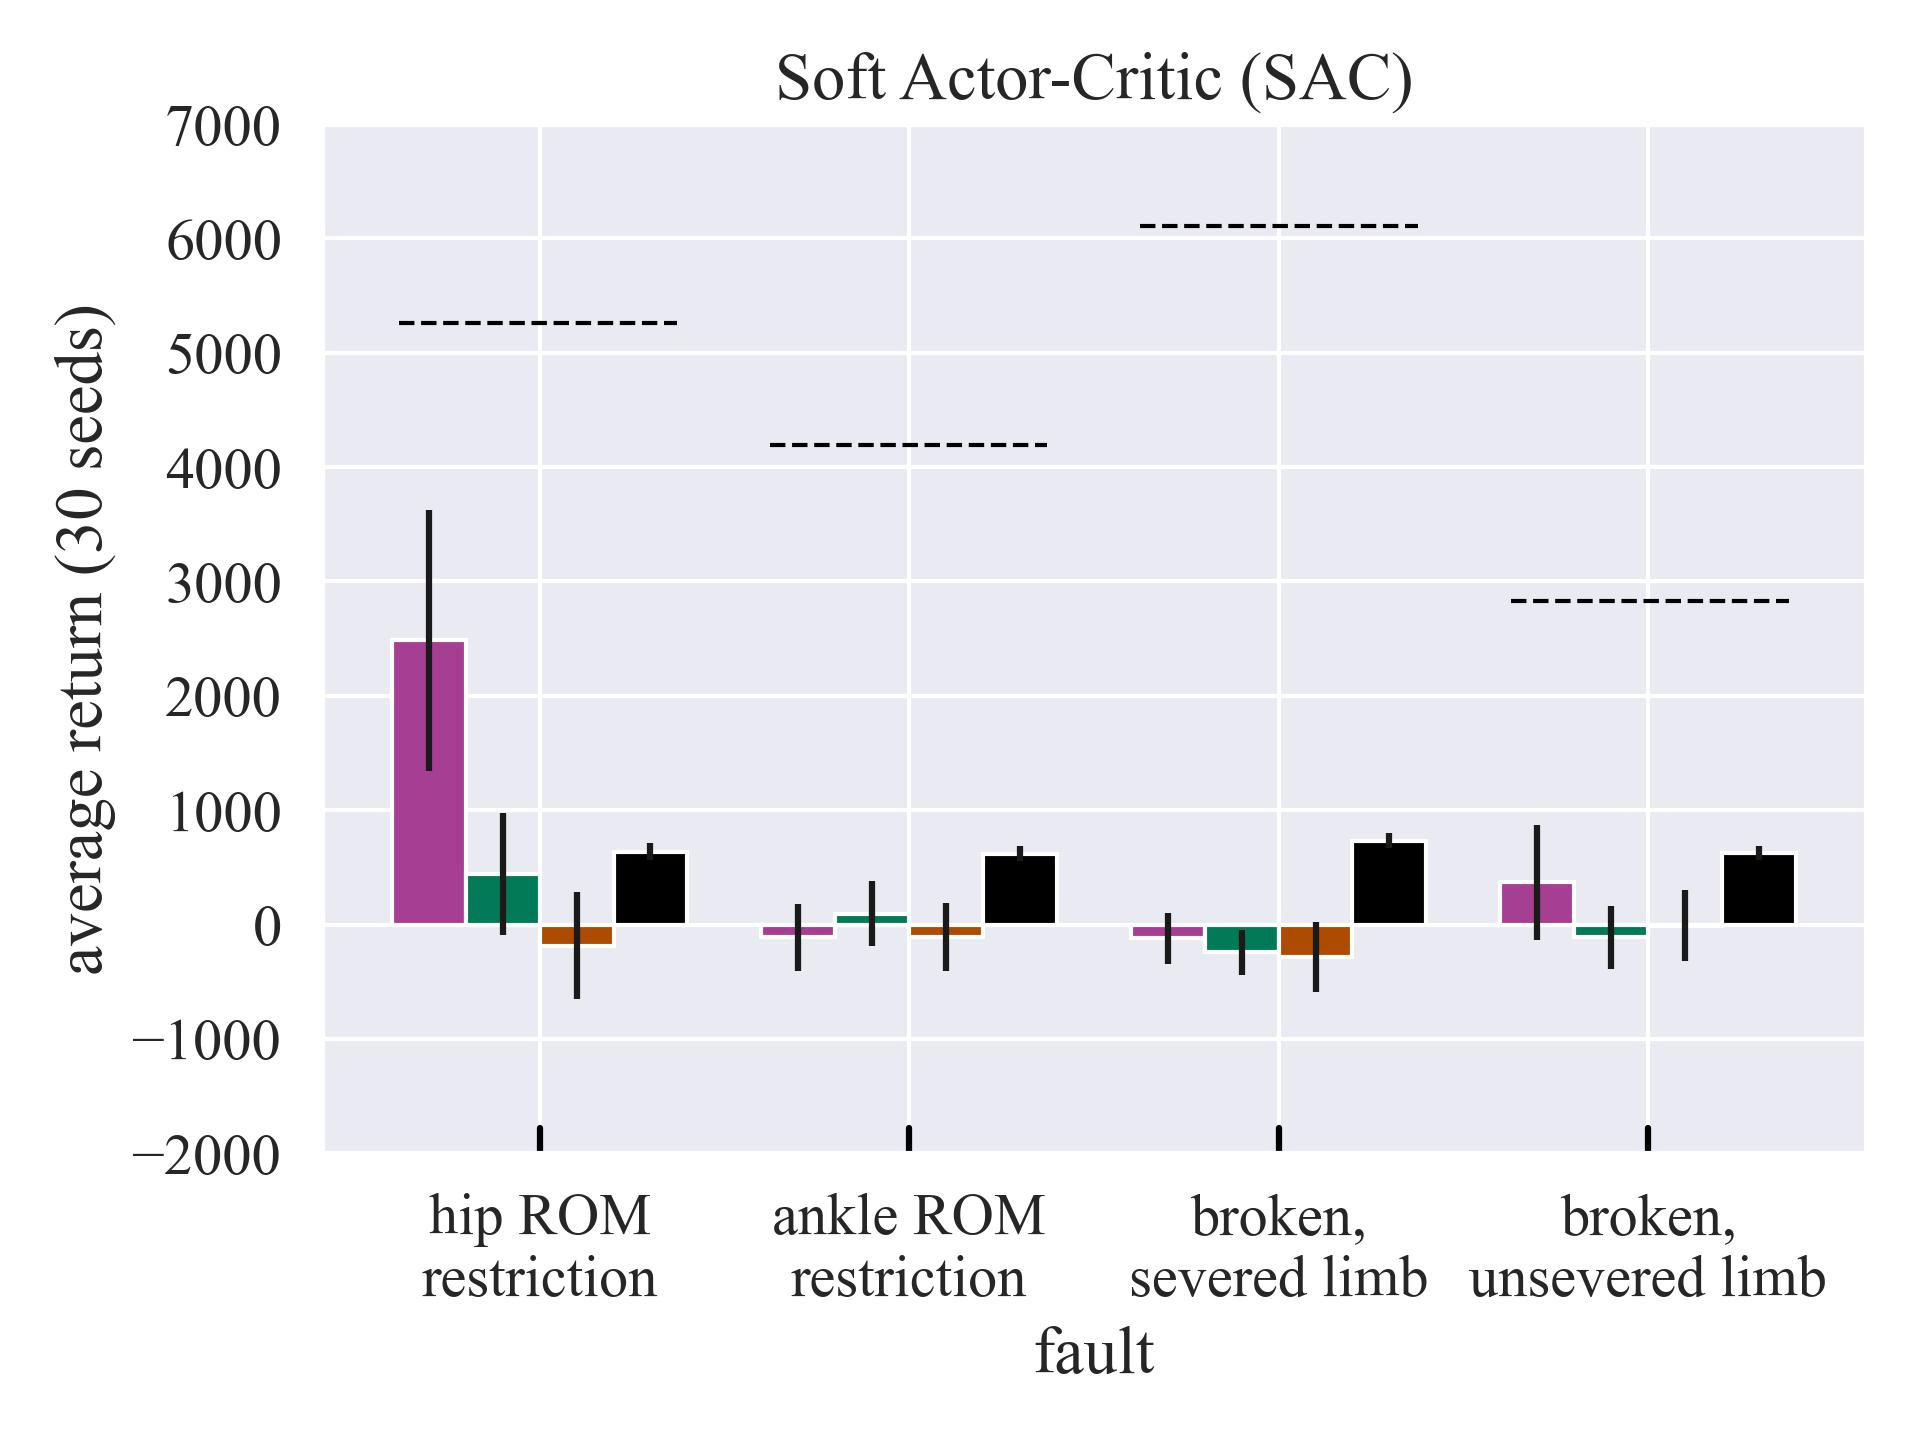
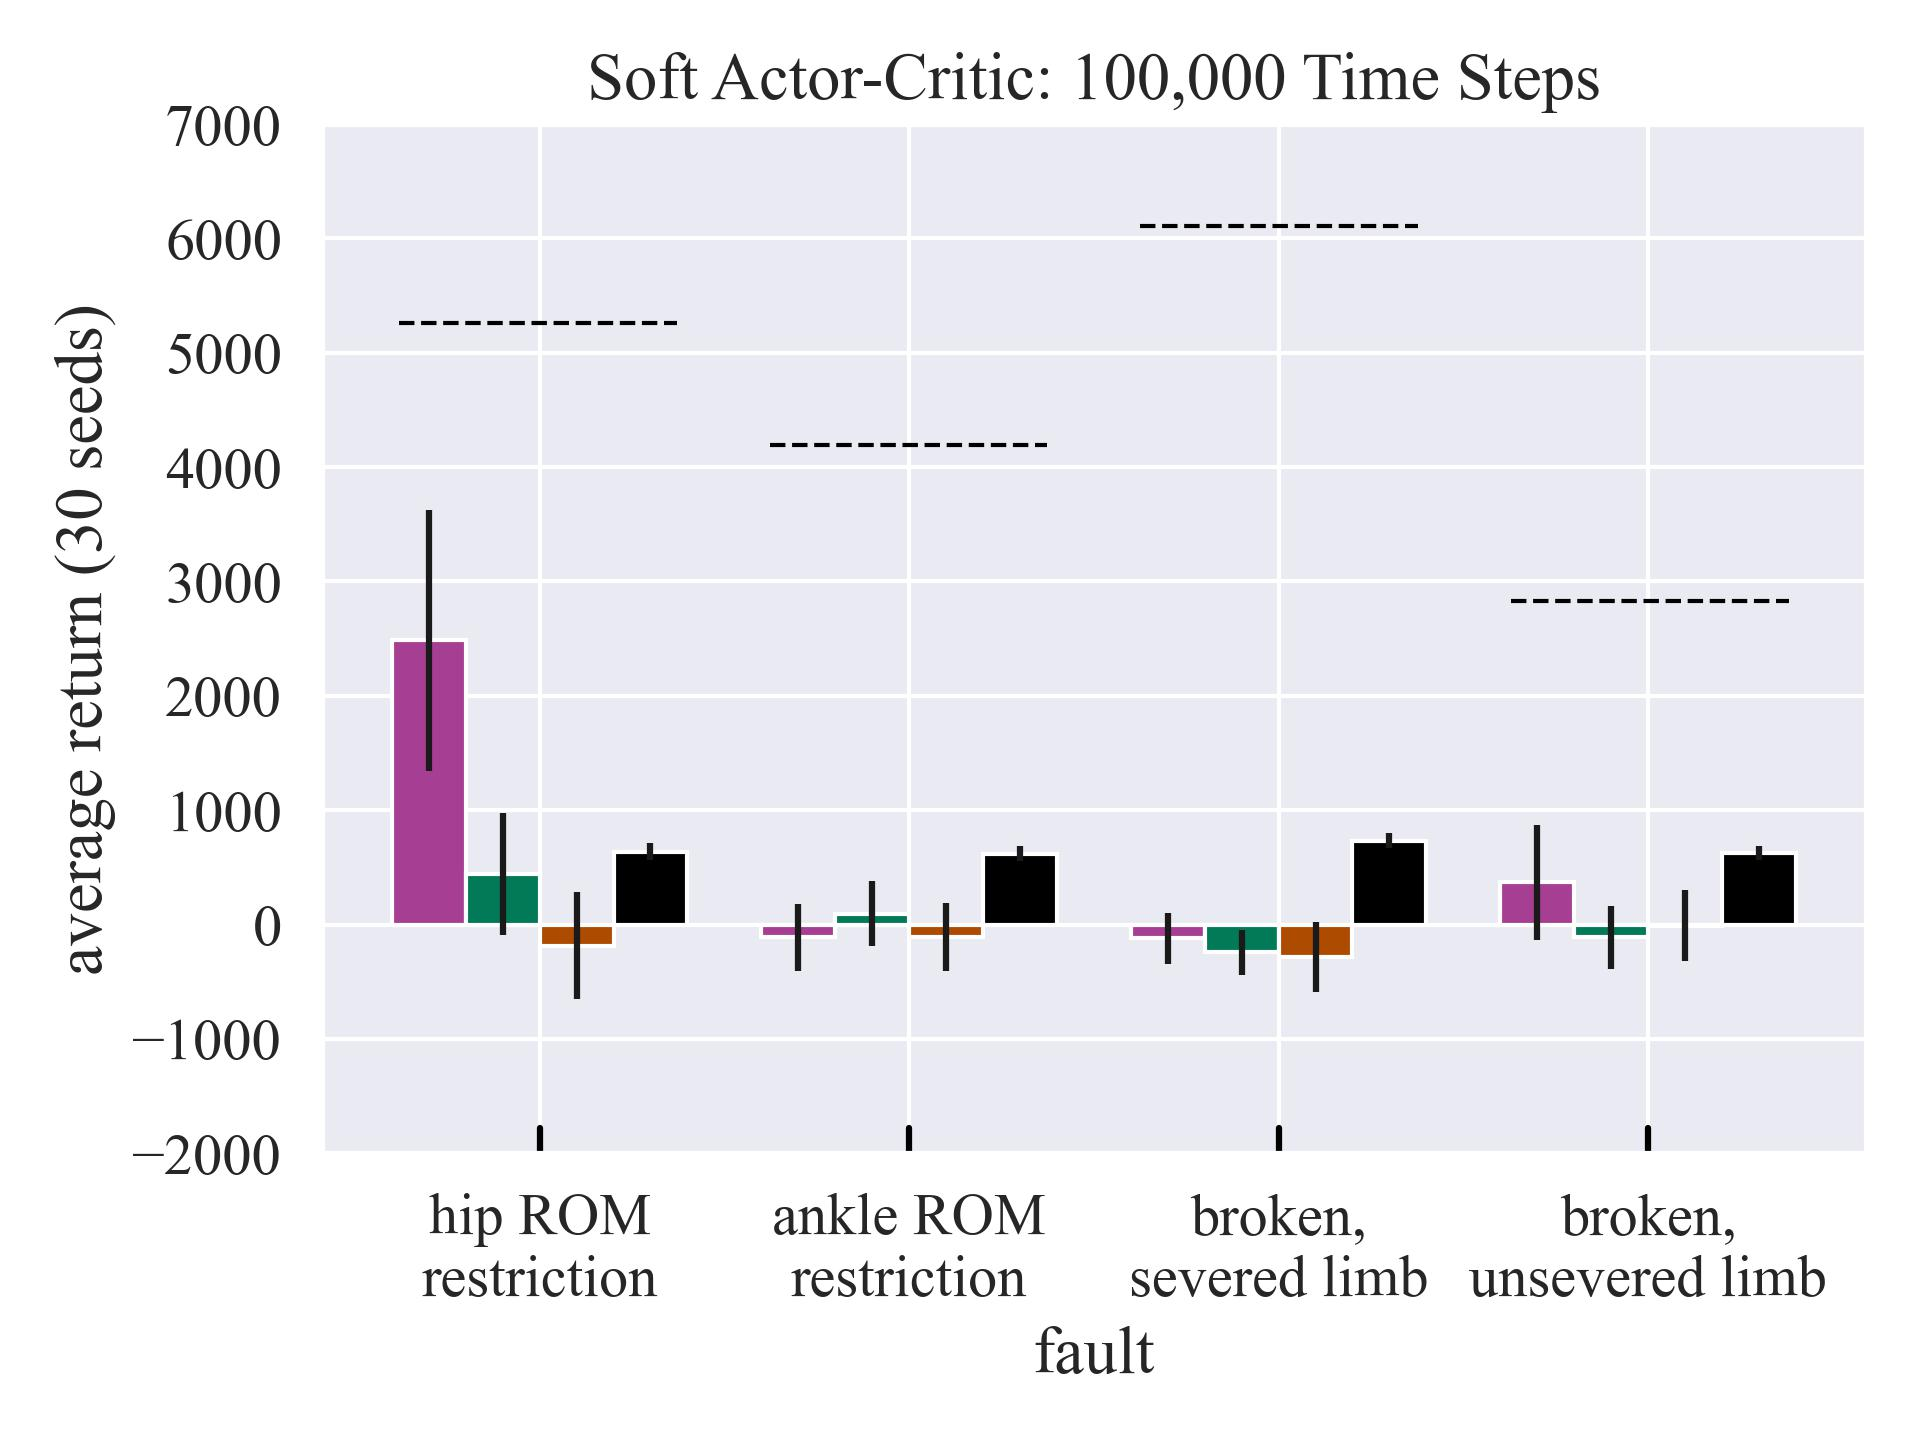
added new title to plots

Changed region(s): [[0.3125, 0.0312, 0.8438, 0.0938]]

diff --git a/plot/paper/stats.py b/plot/paper/stats.py
@@ -546,7 +546,7 @@ def compute_performance_drop_stats(dir_):
         if os.path.exists(dir1):
             eval_data_dir = os.path.join(dir1, "csv", "eval_data.csv")
             eval_data = pd.read_csv(eval_data_dir)
-            pre.append(eval_data[prefault_min + 0:prefault_max]["average_return"].values.tolist())
+            pre.append(eval_data[prefault_min:prefault_max]["average_return"].values.tolist())
             post.append(eval_data[prefault_max:prefault_max + 10]["average_return"].values.tolist())
         else:
             print(colored("missing" + dir1, "red"))
@@ -559,7 +559,7 @@ def compute_performance_drop_stats(dir_):
         diff = post[i] - pre[i]
         drops.append(diff)
 
-    performance_drop_data.append([algo, env, rn, cs, drops])
+    bar_plot_data.append([algo, env, rn, cs, drops])
 
     drop_ci = st.t.interval(alpha=confidence_level, df=len(pre) - 1, loc=np.mean(drops), scale=st.sem(drops))
     if env.startswith("AntEnv"):
@@ -605,7 +605,7 @@ def compute_performance_drop_comparison_stats():
     algorithms = []
     envs = []
 
-    for entry in performance_drop_data:
+    for entry in bar_plot_data:
         algo = entry[0]
         env = entry[1]
         if algo not in algorithms:
@@ -624,7 +624,7 @@ def compute_performance_drop_comparison_stats():
 
             setting_data = []
 
-            for entry in performance_drop_data:
+            for entry in bar_plot_data:
                 algo_ = entry[0]
                 env_ = entry[1]
                 if algo == algo_ and env == env_:
@@ -719,7 +719,7 @@ def compute_performance_drop_comparison_stats():
                 compute_t_test(a_, b_)
 
 
-def compute_postfault_performance_drop(dir_):
+def compute_postfault_bar_plot(dir_):
 
     # experiment info
     info = dir_.split("/")[-1].split("_")
@@ -783,6 +783,10 @@ def compute_postfault_performance_drop(dir_):
 
 def plot_postfault_performance_drop(interval):
 
+    interval_start = 201
+    interval_end = int(interval[1:4])
+    interval_length = interval_end - interval_start
+
     algos = ["PPOv2", "SACv2"]
     envs = ["Ant", "FetchReach"]
 
@@ -796,10 +800,20 @@ def plot_postfault_performance_drop(interval):
 
             data = []
 
+            ts = 0
             if env == "Ant":
                 pre = prefault_performance_data[algo + ", " + "Ant-v2"]
+                if algo == "PPOv2":
+                    ts = interval_length * 3000000
+                elif algo == "SACv2":
+                    ts = interval_length * 100000
             elif env == "FetchReach":
                 pre = prefault_performance_data[algo + ", " + "FetchReach-v1"]
+                if algo == "PPOv2":
+                    ts = interval_length * 30000
+                elif algo == "SACv2":
+                    ts = interval_length * 10000
+            ts = f"{ts:,}"
 
             rnFcsF = None
             rnFcsT = None
@@ -953,9 +967,9 @@ def plot_postfault_performance_drop(interval):
                 plt.ylim((-30, 1.5))
 
             if algo.startswith("PPO"):
-                plt.title("Proximal Policy Optimization (PPO)")
+                plt.title("Proximal Policy Optimization: {} Time Steps".format(ts))
             elif algo.startswith("SAC"):
-                plt.title("Soft Actor-Critic (SAC)")
+                plt.title("Soft Actor-Critic: {} Time Steps".format(ts))
 
             plt.xlabel("fault")
             plt.ylabel("average return (30 seeds)")
@@ -968,7 +982,7 @@ def plot_postfault_performance_drop(interval):
             plt.savefig(filename, dpi=300)
             # Image.open(filename).convert("CMYK").save(filename)
 
-            # plt.show()
+            plt.show()
 
             plt.close()
 
@@ -990,7 +1004,7 @@ if __name__ == "__main__":
 
     complete_adaptation = False
     earliest_adaptation = False
-    performance_drop = False
+    bar_plot = False
     plot_performance_drop = True
 
     if complete_adaptation:
@@ -1074,12 +1088,12 @@ if __name__ == "__main__":
                         dir3 = os.path.join(dir2, dir3)
                         compute_earliest_adaptation_stats(dir3)
 
-    if performance_drop:
+    if bar_plot:
 
         # list of list: entries [algo, env, rn, cs, post]
-        performance_drop_data = []
+        bar_plot_data = []
 
-        with open("stats/performance_drop_stats.txt", "w") as f:
+        with open("stats/bar_plot_stats.txt", "w") as f:
 
             sys.stdout = f
 
@@ -1129,8 +1143,8 @@ if __name__ == "__main__":
         prefault_min = 191
         prefault_max = 201
 
-        postfault_min = 211
-        postfault_max = 212
+        postfault_min = 206
+        postfault_max = 207
 
         eval_interval = f"[{postfault_min}:{postfault_max}]"
 
@@ -1147,7 +1161,7 @@ if __name__ == "__main__":
                 dir2 = os.path.join(dir1, dir2)
                 for dir3 in os.listdir(dir2):
                     dir3 = os.path.join(dir2, dir3)
-                    compute_postfault_performance_drop(dir3)
+                    compute_postfault_bar_plot(dir3)
 
         fetchreach_data_dir = os.path.join(data_dir, "fetchreach", "exps")
 
@@ -1157,7 +1171,7 @@ if __name__ == "__main__":
                 dir2 = os.path.join(dir1, dir2)
                 for dir3 in os.listdir(dir2):
                     dir3 = os.path.join(dir2, dir3)
-                    compute_postfault_performance_drop(dir3)
+                    compute_postfault_bar_plot(dir3)
 
         postfault_performance_data.sort()
         plot_postfault_performance_drop(eval_interval)
@@ -1185,7 +1199,7 @@ if __name__ == "__main__":
                 dir2 = os.path.join(dir1, dir2)
                 for dir3 in os.listdir(dir2):
                     dir3 = os.path.join(dir2, dir3)
-                    compute_postfault_performance_drop(dir3)
+                    compute_postfault_bar_plot(dir3)
 
         fetchreach_data_dir = os.path.join(data_dir, "fetchreach", "exps")
 
@@ -1195,7 +1209,7 @@ if __name__ == "__main__":
                 dir2 = os.path.join(dir1, dir2)
                 for dir3 in os.listdir(dir2):
                     dir3 = os.path.join(dir2, dir3)
-                    compute_postfault_performance_drop(dir3)
+                    compute_postfault_bar_plot(dir3)
 
         postfault_performance_data.sort()
         plot_postfault_performance_drop(eval_interval)
@@ -1223,7 +1237,7 @@ if __name__ == "__main__":
                 dir2 = os.path.join(dir1, dir2)
                 for dir3 in os.listdir(dir2):
                     dir3 = os.path.join(dir2, dir3)
-                    compute_postfault_performance_drop(dir3)
+                    compute_postfault_bar_plot(dir3)
 
         fetchreach_data_dir = os.path.join(data_dir, "fetchreach", "exps")
 
@@ -1233,7 +1247,7 @@ if __name__ == "__main__":
                 dir2 = os.path.join(dir1, dir2)
                 for dir3 in os.listdir(dir2):
                     dir3 = os.path.join(dir2, dir3)
-                    compute_postfault_performance_drop(dir3)
+                    compute_postfault_bar_plot(dir3)
 
         postfault_performance_data.sort()
         plot_postfault_performance_drop(eval_interval)
